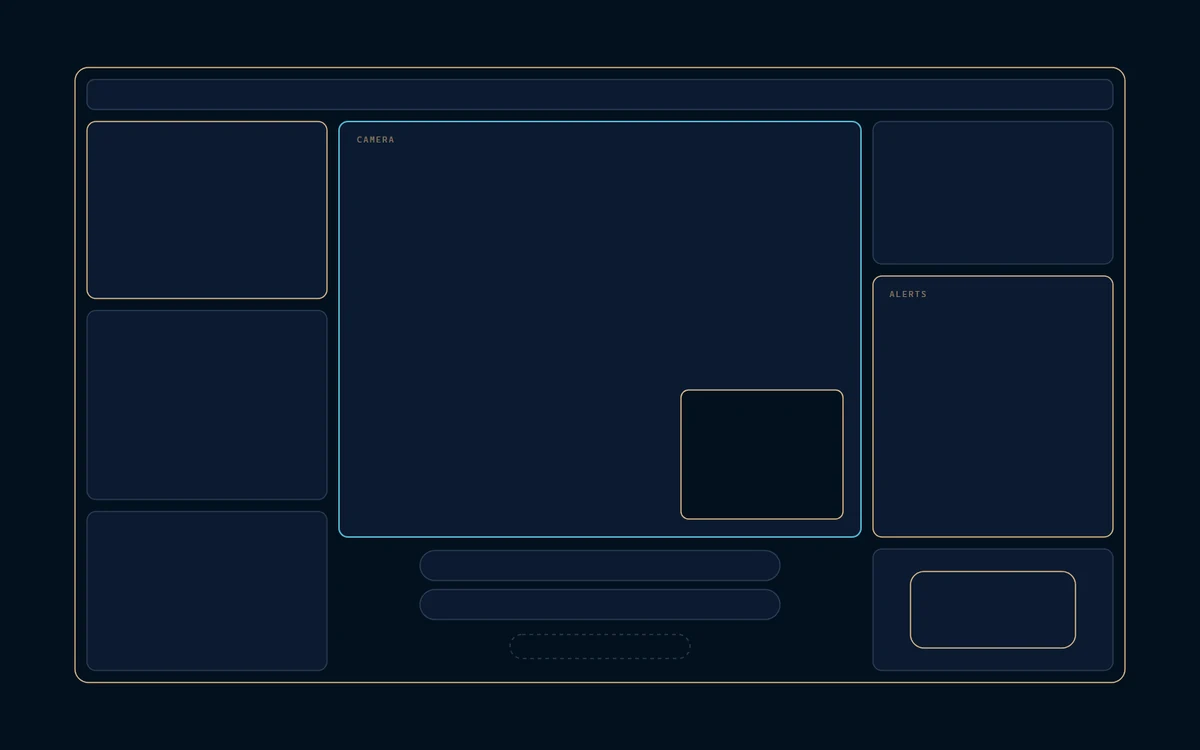
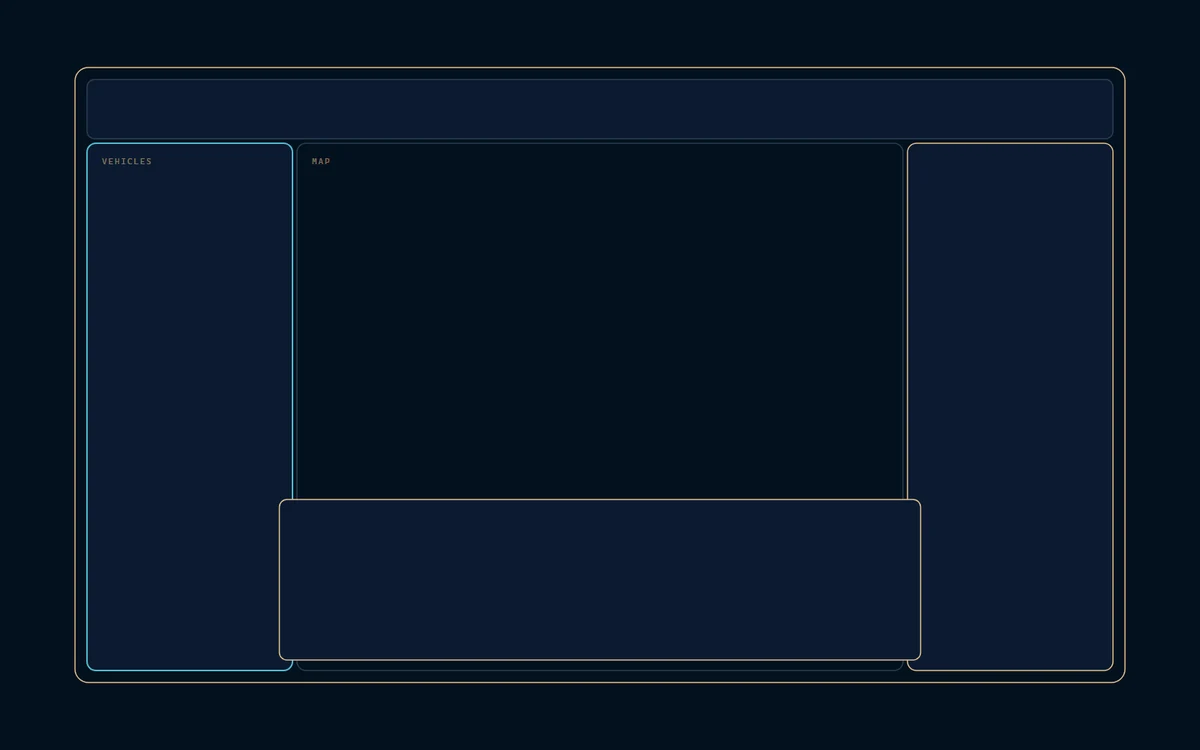
feat: new stand layout on the auto-connect page

diff --git a/src/data/projects.js b/src/data/projects.js
@@ -31,8 +31,9 @@ const featured = [
         stack: 'Flask, then FastAPI and uv, websockets',
         year: '2025',
         role: 'Software Engineer, Aurrigo',
-        coverAlt: 'Layout sketch of the stand screen: a vehicle list, the map, a side list and a mission panel across the bottom.',
+        coverAlt: 'Layout sketch of the stand screen since December: the map fills the screen, with floating panels for vehicles and missions.',
         gallery: [
+            'Before: the stand screen until December, with docked lists on both sides of the map.',
             'Layout sketch of remote supervision: camera tiles, a minimap, alerts and a stop panel.',
             'Sketch of the interaction patterns: a panel that shrinks to a pill, an expanding row, slide to authorise, press and hold.',
         ],
@@ -41,6 +42,7 @@ const featured = [
             'Auto-Connect is the software Aurrigo uses to run driverless vehicles on the airside of an airport. I set it up from the first architecture diagram in May 2025, and I was its only engineer.',
             'I wrote the first backend in Flask with MySQL, then rebuilt it in FastAPI with uv that September. The four operator screens, for fleet, stand, baggage area and remote supervision, talk to it over websockets.',
             'The tricky part is keeping a busy screen calm, so the thing that needs you right now is the first thing you see.',
+            'In December the stand screen went map-first, with its panels floating over the map.',
         ],
         links: [],
     },
